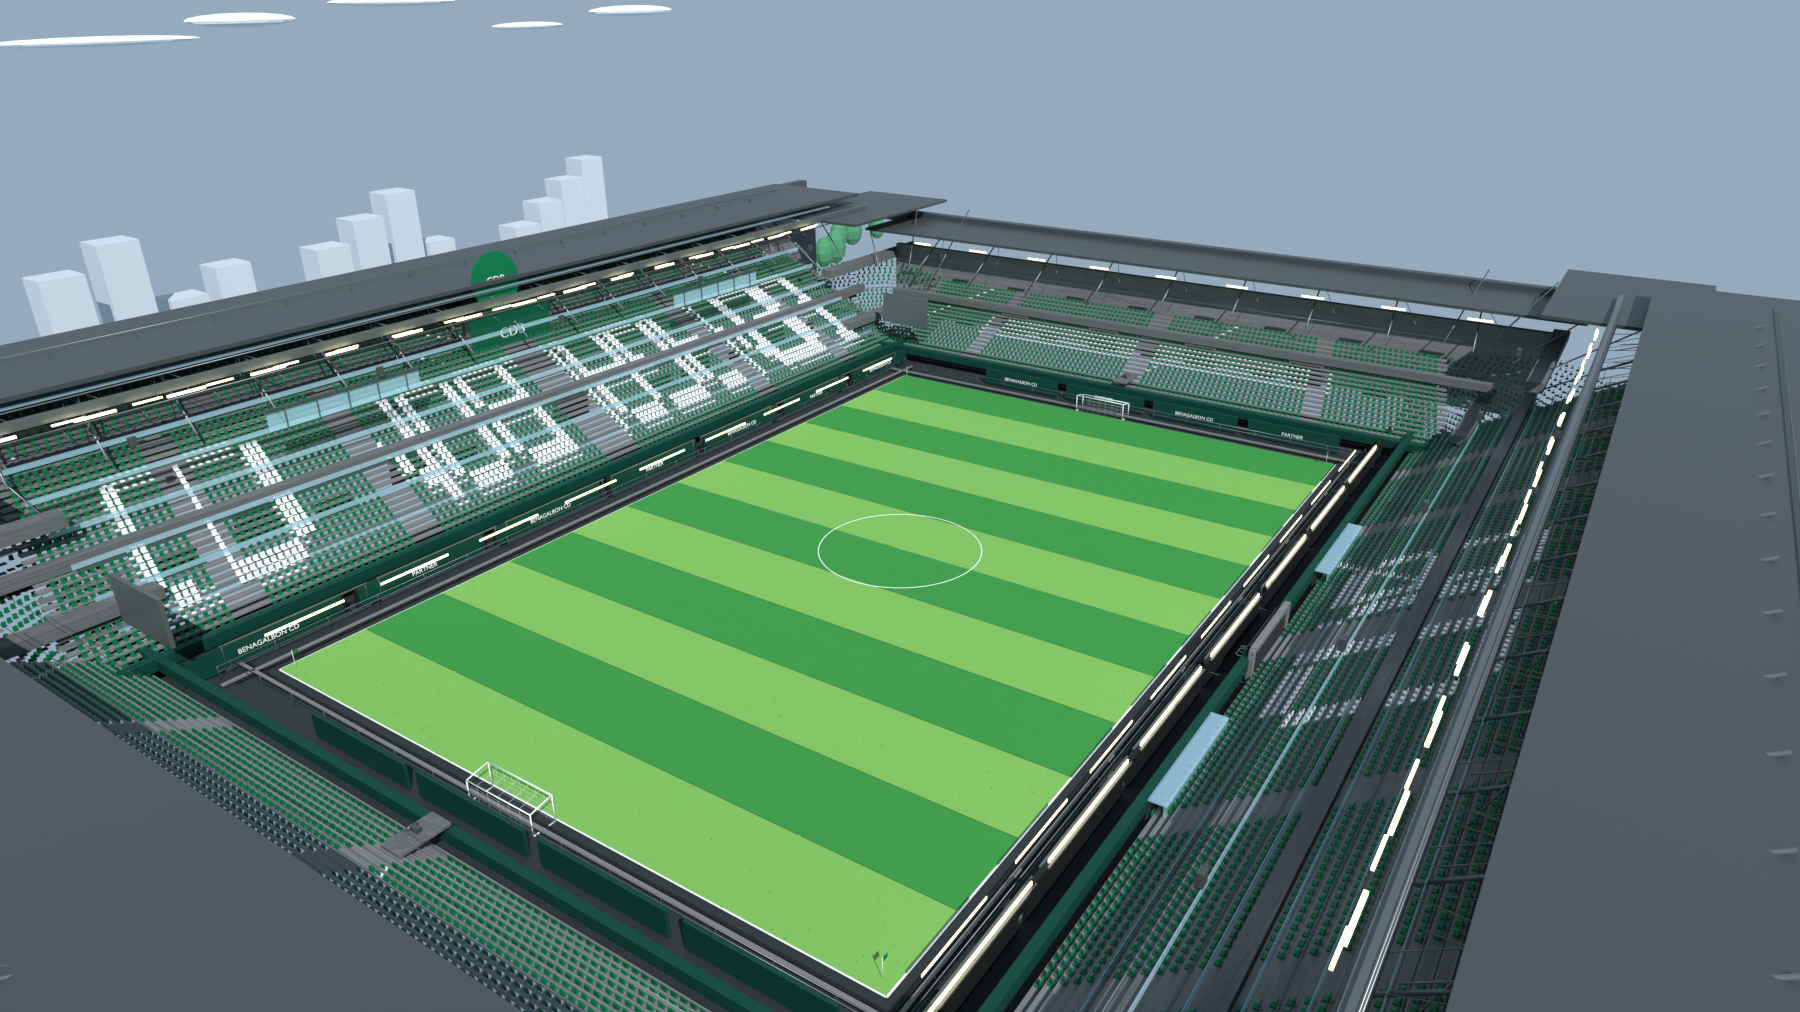
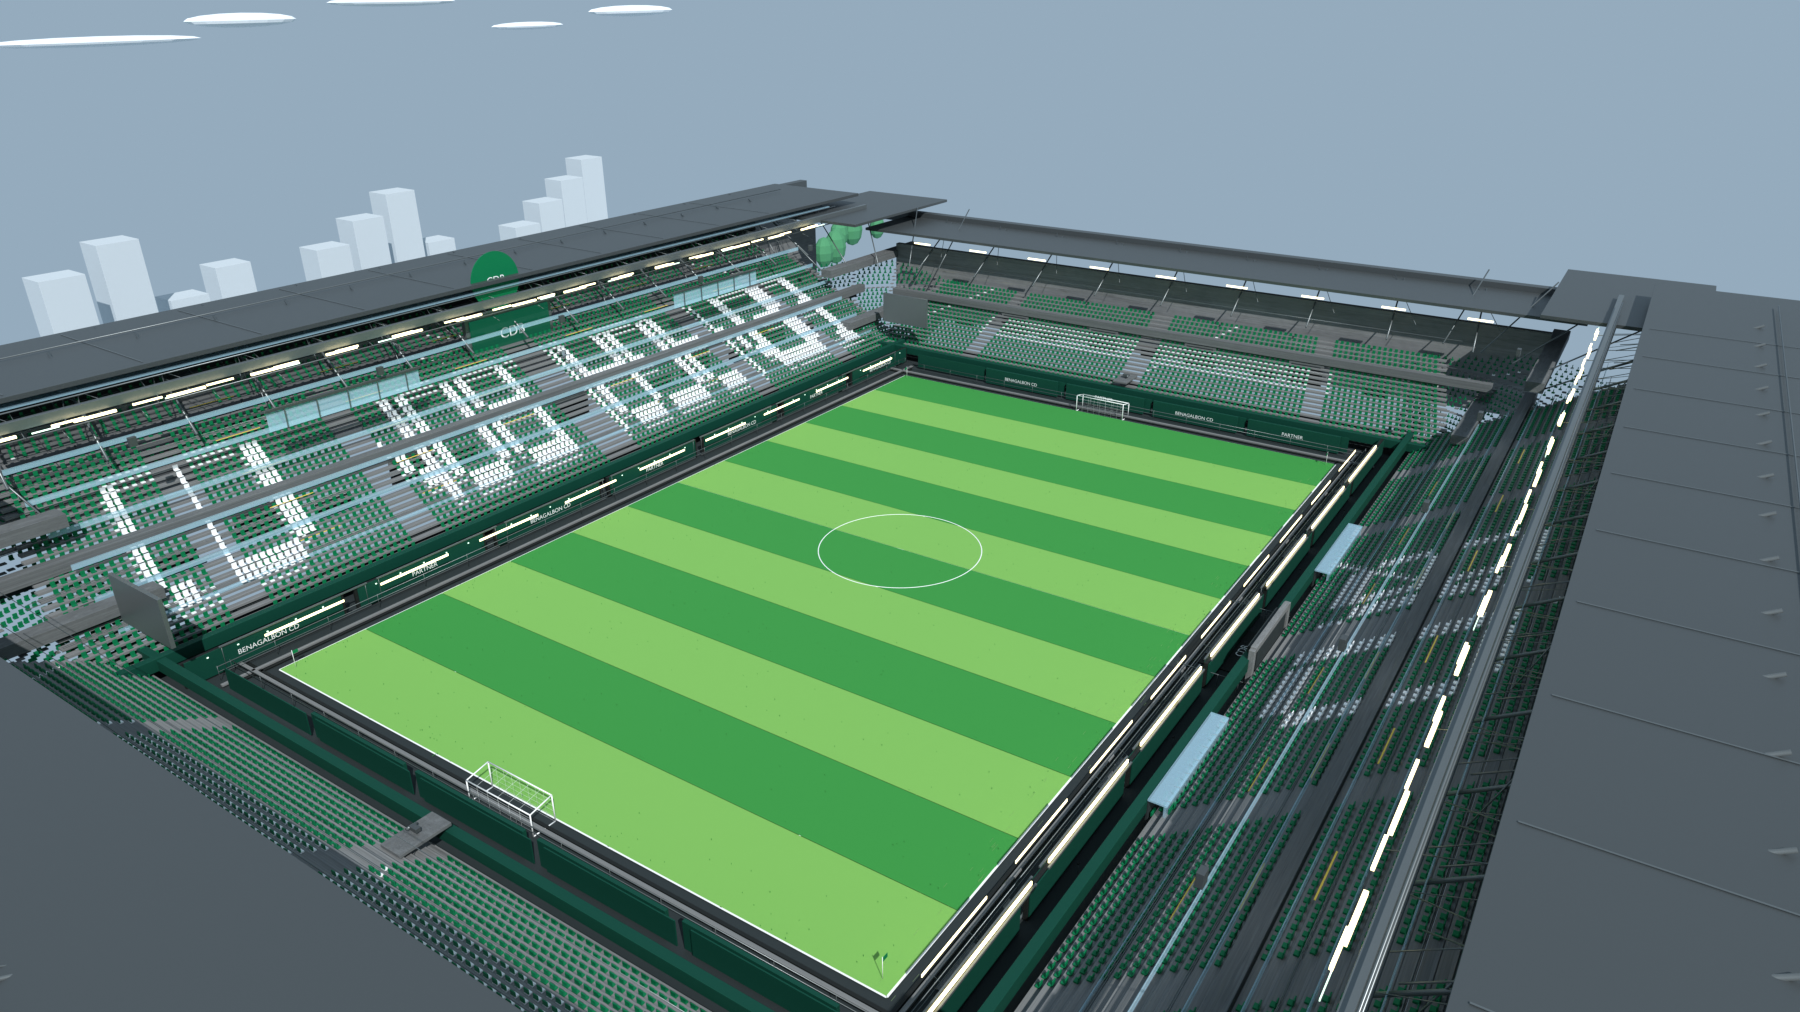
Refine hyperrealistic stadium model

diff --git a/football/static/football/js/stadium_hyperrealistic.js b/football/static/football/js/stadium_hyperrealistic.js
@@ -28,7 +28,7 @@ scene.background = new THREE.Color(0x9fcaec);
 scene.fog = new THREE.Fog(0x9fcaec, 150, 360);
 
 const camera = new THREE.PerspectiveCamera(38, root.clientWidth / root.clientHeight, 0.1, 700);
-const target = new THREE.Vector3(0, 0, 3.5);
+const target = new THREE.Vector3(0, 5.4, 0);
 const cam = {
   yaw: -2.30,
   pitch: 0.30,
@@ -129,8 +129,8 @@ function setPreset(name) {
 
 function updateCamera(t) {
   if (cam.auto) cam.yaw = -2.30 + Math.sin(t * 0.00012) * 0.045;
-  cam.pitch = Math.max(0.14, Math.min(1.1, cam.pitch));
-  cam.radius = Math.max(60, Math.min(230, cam.radius));
+  cam.pitch = Math.max(0.24, Math.min(1.1, cam.pitch));
+  cam.radius = Math.max(74, Math.min(230, cam.radius));
   const horizontal = Math.cos(cam.pitch) * cam.radius;
   camera.position.set(
     target.x + Math.sin(cam.yaw) * horizontal,

diff --git a/football/templates/football/stadium_hyperrealistic.html b/football/templates/football/stadium_hyperrealistic.html
@@ -126,7 +126,7 @@
   <body>
     <main
       id="stadium-root"
-      data-model-src="{% static 'football/models/stadium/benagalbon-hyperrealistic-stadium.glb' %}?v=stadium-render-15"
+      data-model-src="{% static 'football/models/stadium/benagalbon-hyperrealistic-stadium.glb' %}?v=stadium-render-16"
       data-crest-src="{% static 'football/images/cdb-benagalbon-crest.png' %}"
       data-twoj-src="{% static 'football/images/2j-mark.svg' %}"
     ></main>
@@ -142,6 +142,6 @@
         <button type="button" data-camera="touchline" title="Camara banda">LINE</button>
       </div>
     </div>
-    <script type="module" src="{% static 'football/js/stadium_hyperrealistic.js' %}?v=blender-stadium-14"></script>
+    <script type="module" src="{% static 'football/js/stadium_hyperrealistic.js' %}?v=blender-stadium-16"></script>
   </body>
 </html>

diff --git a/scripts/create_hyperrealistic_stadium_blender.py b/scripts/create_hyperrealistic_stadium_blender.py
@@ -159,6 +159,8 @@ def init_materials():
             "rubber": material("technical_black_rubber", (0.015, 0.018, 0.017), 0.70),
             "screen": material("screen_dark_led", (0.015, 0.025, 0.020), 0.36, emission=(0.0, 0.20, 0.11), emission_strength=0.6),
             "light": material("stadium_warm_led", (1.0, 0.90, 0.68), 0.22, emission=(1.0, 0.84, 0.46), emission_strength=3.5),
+            "safety_yellow": material("stair_nosing_safety_yellow", (1.0, 0.72, 0.12), 0.58),
+            "led_white": material("cool_white_led_pixels", (0.86, 1.0, 0.92), 0.18, emission=(0.70, 1.0, 0.78), emission_strength=1.8),
             "sky": material("clear_summer_sky", (0.54, 0.75, 0.94), 0.9, emission=(0.54, 0.75, 0.94), emission_strength=0.08),
             "cloud": material("soft_white_cloud", (0.92, 0.96, 1.0), 0.95),
             "tree": material("distant_tree_canopy", (0.10, 0.32, 0.16), 0.84),
@@ -268,7 +270,7 @@ def cylinder_between(name, start, end, radius, mat_name, vertices=16):
     return obj
 
 
-def add_text(name, text, loc, size, mat_name, rot=(0, 0, 0), align="CENTER", extrude=0.02):
+def add_text(name, text, loc, size, mat_name, rot=(0, 0, 0), align="CENTER", extrude=0.0):
     bpy.ops.object.text_add(location=loc, rotation=rot)
     obj = bpy.context.object
     obj.name = name
@@ -945,6 +947,56 @@ def add_reference_render_polish():
             cube(f"render_model_outer_facade_highlight_{label}_{x}", (x - 2.5, y - sign * 0.11, 10.3), (0.10, 0.08, 8.1), "concrete", 0.004)
 
 
+def add_final_stadium_refinement_pass():
+    for sign, label in [(1, "main"), (-1, "opposite")]:
+        base_y = sign * (HALF_Y + 8)
+        front_y = base_y + sign * 17.25
+        rear_y = base_y + sign * 40.9
+        for i, x in enumerate([-58, -46, -34, -22, -10, 2, 14, 26, 38, 50, 62]):
+            cylinder_between(
+                f"final_{label}_roof_under_web_{i}",
+                (x, front_y, 19.35),
+                (x + 5.2, rear_y, 22.35),
+                0.035,
+                "steel",
+                8,
+            )
+            cube(f"final_{label}_roof_led_cell_{i}", (x + 1.8, front_y - sign * 0.12, 19.62), (2.35, 0.055, 0.13), "led_white", 0.004)
+        for bay in range(10):
+            x = -57 + bay * 12.6
+            cube(f"final_{label}_roof_panel_seam_{bay}", (x, base_y + sign * 31.4, 22.32), (0.10, 18.2, 0.035), "steel", 0.002)
+        for row, z in enumerate([2.0, 4.9, 7.8, 10.7, 13.6, 16.5]):
+            y = base_y + sign * (1.8 + row * 4.0)
+            for x in [-39, -24, -9, 9, 24, 39]:
+                cube(f"final_{label}_aisle_nosing_{row}_{x}", (x, y, z), (4.8, 0.11, 0.045), "safety_yellow", 0.002)
+        for x in [-54, -42, -30, -18, -6, 6, 18, 30, 42, 54]:
+            cube(f"final_{label}_rear_shadow_louver_{x}", (x, base_y + sign * 27.95, 12.4), (0.22, 0.16, 6.6), "asphalt", 0.004)
+
+    for sign, label in [(1, "north"), (-1, "south")]:
+        y = sign * (HALF_Y + 4.0)
+        for x in range(-51, 52, 17):
+            cube(f"final_{label}_adboard_rear_mask_{x}", (x, y + sign * 0.34, 1.38), (15.6, 0.10, 2.18), "green_dark", 0.006)
+            for px in [-5.6, -2.8, 0, 2.8, 5.6]:
+                cube(f"final_{label}_adboard_led_pixel_{x}_{px}", (x + px, y - sign * 0.23, 2.17), (0.16, 0.035, 0.11), "led_white", 0.002)
+
+    for sign, label in [(1, "east"), (-1, "west")]:
+        x = sign * (HALF_X + 4.0)
+        for y in range(-28, 29, 14):
+            cube(f"final_{label}_adboard_rear_mask_{y}", (x + sign * 0.34, y, 1.38), (0.10, 12.6, 2.18), "green_dark", 0.006)
+
+    seed = 7221
+    touchline_scuffs = []
+    for i in range(160):
+        seed = (seed * 1664525 + 1013904223) & 0xFFFFFFFF
+        rx = seed / 0xFFFFFFFF
+        seed = (seed * 1664525 + 1013904223) & 0xFFFFFFFF
+        ry = seed / 0xFFFFFFFF
+        x = -HALF_X + rx * PITCH_X
+        y = (-HALF_Y - 2.2) + ry * 4.4
+        touchline_scuffs.append(((x, y, 0.172 + i * 0.000003), (0.42 + (i % 5) * 0.11, 0.035, 0.008)))
+    mesh_boxes("final_touchline_boot_scuffs", touchline_scuffs, "grass_wear")
+
+
 def add_lighting_and_camera():
     bpy.ops.object.light_add(type="SUN", location=(-70, -95, 110))
     sun = bpy.context.object
@@ -993,6 +1045,7 @@ def main():
     add_screen_and_crest()
     add_environment()
     add_reference_render_polish()
+    add_final_stadium_refinement_pass()
     add_lighting_and_camera()
 
     bpy.ops.wm.save_as_mainfile(filepath=str(OUT_BLEND))